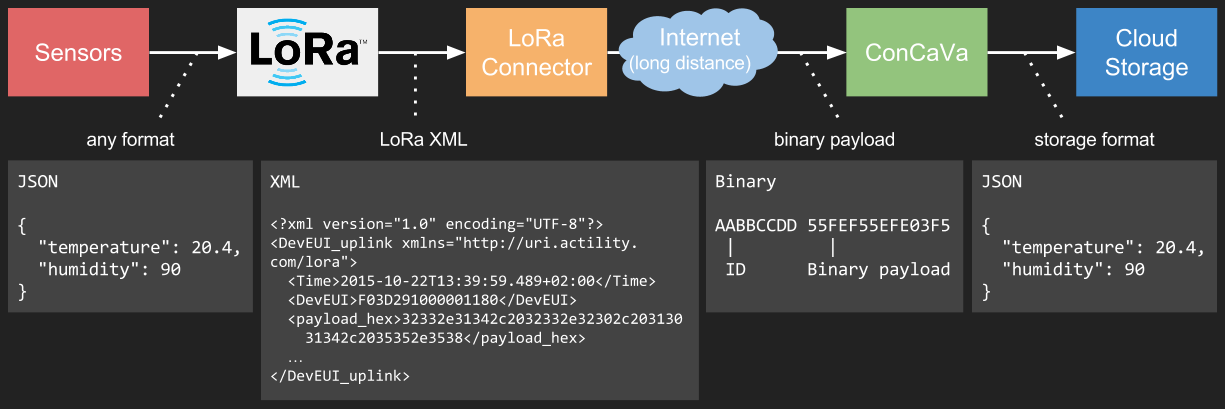
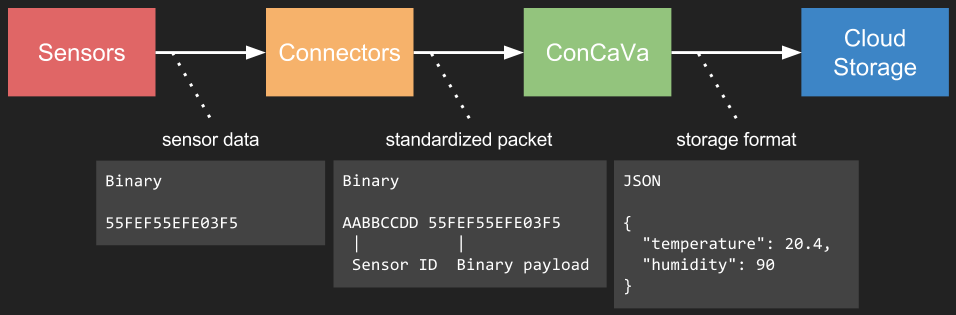
Improve presentation.

diff --git a/index.html b/index.html
@@ -6,7 +6,7 @@
 	<title>Introduction to ConCaVa</title>
 
 	<meta name="description" content="Introduction to ConCaVa. Convert, calibrate, and validate sensor data.">
-	<meta name="author" content="Kukua">
+	<meta name="author" content="Maurits van Mastrigt <maurits@kukua.cc>">
 
 	<meta name="apple-mobile-web-app-capable" content="yes" />
 	<meta name="apple-mobile-web-app-status-bar-style" content="black-translucent" />
@@ -62,42 +62,19 @@
 
 		<section>
 			<h2>Why?</h2>
-			<p>Big problems require a scalable and generic solution.</p>
+			<p>Room for improvement in efficiently sending and storing sensor data.</p>
+			<p>Several companies doing the same thing.</p>
+			<p>Common problems require a scalable and generic solution.</p>
 		</section>
 
 		<section>
 			<h2>Problem</h2>
 			<ul>
-				<li>Calibrating, validating, and storing sensor data is hard</li>
-				<li>Why reinvent the wheel?</li>
+				<li>The current formats (XML, JSON) require a lot of bandwidth</li>
+				<li>This costs money</li>
+				<li>Calibrating, validating, and storing sensor data is difficult</li>
+				<li>Why keep reinventing the wheel?</li>
 			</ul>
-		</section>
-
-		<section>
-			<section>
-				<h2>Solution</h2>
-				<ul>
-					<li>ConCaVa: Convert, calibrate, and validate</li>
-					<li>Replaceable components</li>
-					<li>Token based authentication</li>
-					<li>Plug-and-play/custom connectors</li>
-				</ul>
-			</section>
-			<section>
-				<img class="no-style" src="img/architecture.png"/>
-			</section>
-			<section>
-				<h3>Connectors</h3>
-				<ul>
-					<li>Placed close to the sensors</li>
-					<li>Collect and convert payload to any binary format</li>
-					<li>Send payload and authentication token to ConCaVa</li>
-				</ul>
-			</section>
-			<section>
-				<h3>Example dataflow</h3>
-				<img class="no-style" src="img/dataflow.png"/>
-			</section>
 		</section>
 
 		<section>
@@ -109,7 +86,7 @@
 				<h3>Constraints</h3>
 				<ul>
 					<li>Limited package size (51 bytes)</li>
-					<li>"begrenzing aan gebruik van het spectrum"?</li>
+					<li>886Mhz spectrum, with limiting throughput</li>
 				</ul>
 			</section>
 			<section>
@@ -124,6 +101,7 @@
 					<li>Humidity</li>
 					<li>Barometric pressure</li>
 					<li>Ultraviolet (UV) light</li>
+					<li>Solar radiation</li>
 				</ul>
 			</section>
 			<section>
@@ -142,9 +120,9 @@
 http://weatherstation.wunderground.com/weatherstation/updateweathers
 tation.php?id=KCASANFR5&password=XXXXXX&dateutc=2000-01-01+10%3A32%3
 A35&windspeedmph=12&winddir=230&windgustmph=12&windgustdir=230&raini
-n=0&tempf=70&humidity=90&baromin=29.1&uvl=20
+n=0&tempf=70&humidity=90&baromin=29.1&uvl=20&solarrad=10
 				</code></pre>
-				<p>~173 bytes of data</p>
+				<p>~185 bytes of data</p>
 			</section>
 			<section>
 				<h3>XML data</h3>
@@ -163,9 +141,10 @@ n=0&tempf=70&humidity=90&baromin=29.1&uvl=20
 	<humidity>90</humidity>
 	<baromin>29.1</baromin>
 	<uvl>20</uvl>
+	<solarrad>10</solarrad>
 </data>
 				</code></pre>
-				<p>~370 bytes of data</p>
+				<p>~393 bytes of data</p>
 			</section>
 			<section>
 				<h3>Binary data</h3>
@@ -183,9 +162,10 @@ n=0&tempf=70&humidity=90&baromin=29.1&uvl=20
 						<li>Humidity = 1 byte</li>
 						<li>Barometric pressure = 1 byte</li>
 						<li>Ultraviolet (UV) light = 1 byte</li>
+						<li>Solar radiation = 1 byte</li>
 					</ul>
 				</small>
-				<p>40 bytes of data</p>
+				<p>41 bytes of data</p>
 			</section>
 		</section>
 
@@ -200,7 +180,7 @@ n=0&tempf=70&humidity=90&baromin=29.1&uvl=20
 			</section>
 			<section>
 				<h3>Parsing</h3>
-				<h4>Which byte contains what data?</h4>
+				<h4>Which byte(s) contains what data?</h4>
 				<ul>
 					<li>Metadata required to make sense of the data</li>
 					<li>Dynamic metadata enables flexible binary payload</li>
@@ -210,29 +190,45 @@ n=0&tempf=70&humidity=90&baromin=29.1&uvl=20
 
 		<section>
 			<section>
-				<h2>This is where ConCaVa comes in</h2>
-				<p>ConCaVa is a generic binary payload processor.</p>
-				<p>Determines the metadata by device ID.</p>
-				<p>Used to convert, calibrate, and validate the sensor data.</p>
-				<p>Stores the sensor data in the Cloud Storage<br/>(the Orion Context Broker, for example).</p>
+				<h2>Solution</h2>
+				<h4>ConCaVa: Convert, calibrate, and validate</h4>
+				<ul>
+					<li>Generic binary payload processor</li>
+					<li>Replaceable components</li>
+					<li>Token based authentication</li>
+					<li>Plug-and-play/custom connectors</li>
+					<li>Stores sensor data in Cloud Storage<br/>(the Orion Context Broker, for example)</li>
+				</ul>
+				<p><small>Source on Github: <a href="https://github.com/kukua/" target="_blank">https://github.com/kukua/</a></small></p>
+			</section>
+			<section>
+				<img class="no-style" src="img/architecture.png"/>
+			</section>
+			<section>
+				<h3>General dataflow</h3>
+				<img class="no-style" src="img/dataflow.png"/>
+			</section>
+			<section>
+				<h3>LoRaWAN dataflow</h3>
+				<img class="no-style" src="img/dataflow_lora.png"/>
 			</section>
 			<section>
 				<h3>Three simple steps</h3>
 				<ol class="spatious">
 					<li>Convert: use metadata to parse the binary payload</li>
-					<li>Calibrate: filter out sensor misreadings<br/>(e.g. temperatures below −273.15°C)</li>
-					<li>Validate: transform data to desired format<br/>(e.g. convert Fahrenheit to Celcius)</li>
+					<li>Calibrate: transform data to desired format<br/>(e.g. convert Fahrenheit to Celcius)</li>
+					<li>Validate: correct sensor misreadings<br/>(e.g. temperatures below −273.15°C)</li>
 				</ol>
-				<p>ConCaVa supports every thinkable rule for converting, validating, and calibrating sensor data.</p>
+				<p>ConCaVa supports every thinkable rule for converting, calibrating, and validating sensor data.</p>
 			</section>
 			<section>
 				<h3>Example</h3>
 				<p>For example: wind direction of 1 byte (integer value 0-255).</p>
-				<pre><code class="lang-http">
-Convert:      binary 00011110 = integer value 30
-Calibrate:    0 ≤ value ≤ 255
-Validator:    value = 360 * (value / 255)
-Result:       42.4°
+				<pre><code>
+Convert:    binary 00011110 = integer value 30
+Calibrate:  value = 360 * (value / 255)
+Validate:   0 ≤ value ≤ 255
+Result:     42.4°
 				</code></pre>
 			</section>
 		</section>
@@ -240,9 +236,8 @@ Result:       42.4°
 		<section>
 			<h2>Highly customizable</h2>
 			<ul>
-				<li>Configurable</li>
-				<li>Dynamic metadata</li>
-				<li>Custom validators</li>
+				<li>Dynamic metadata allows any format of binary payload</li>
+				<li>Custom calibrate functions</li>
 				<li>Replaceable components
 					<ul>
 						<li>Cloud Storage</li>
@@ -257,11 +252,20 @@ Result:       42.4°
 			<h2>Roadmap</h2>
 			<ul>
 				<li>Open-source components</li>
-				<li>Configuration options</li>
+				<li>Easy setup (Docker containers)</li>
 				<li>Documented</li>
 				<li>Automated testing (unit-tests)</li>
 				<li>Graphical interface, for managing metadata and viewing sensor data</li>
 			</ul>
+		</section>
+
+		<section>
+			<h2>The end</h2>
+			<p>Questions?</p>
+			<p><br/></p>
+			<p><small><a href="http://kukua.cc">http://kukua.cc</a></small><br/>
+				<small><a href="https://github.com/kukua/">https://github.com/kukua/</a></small>
+			</p>
 		</section>
 	</div>
 </div>
